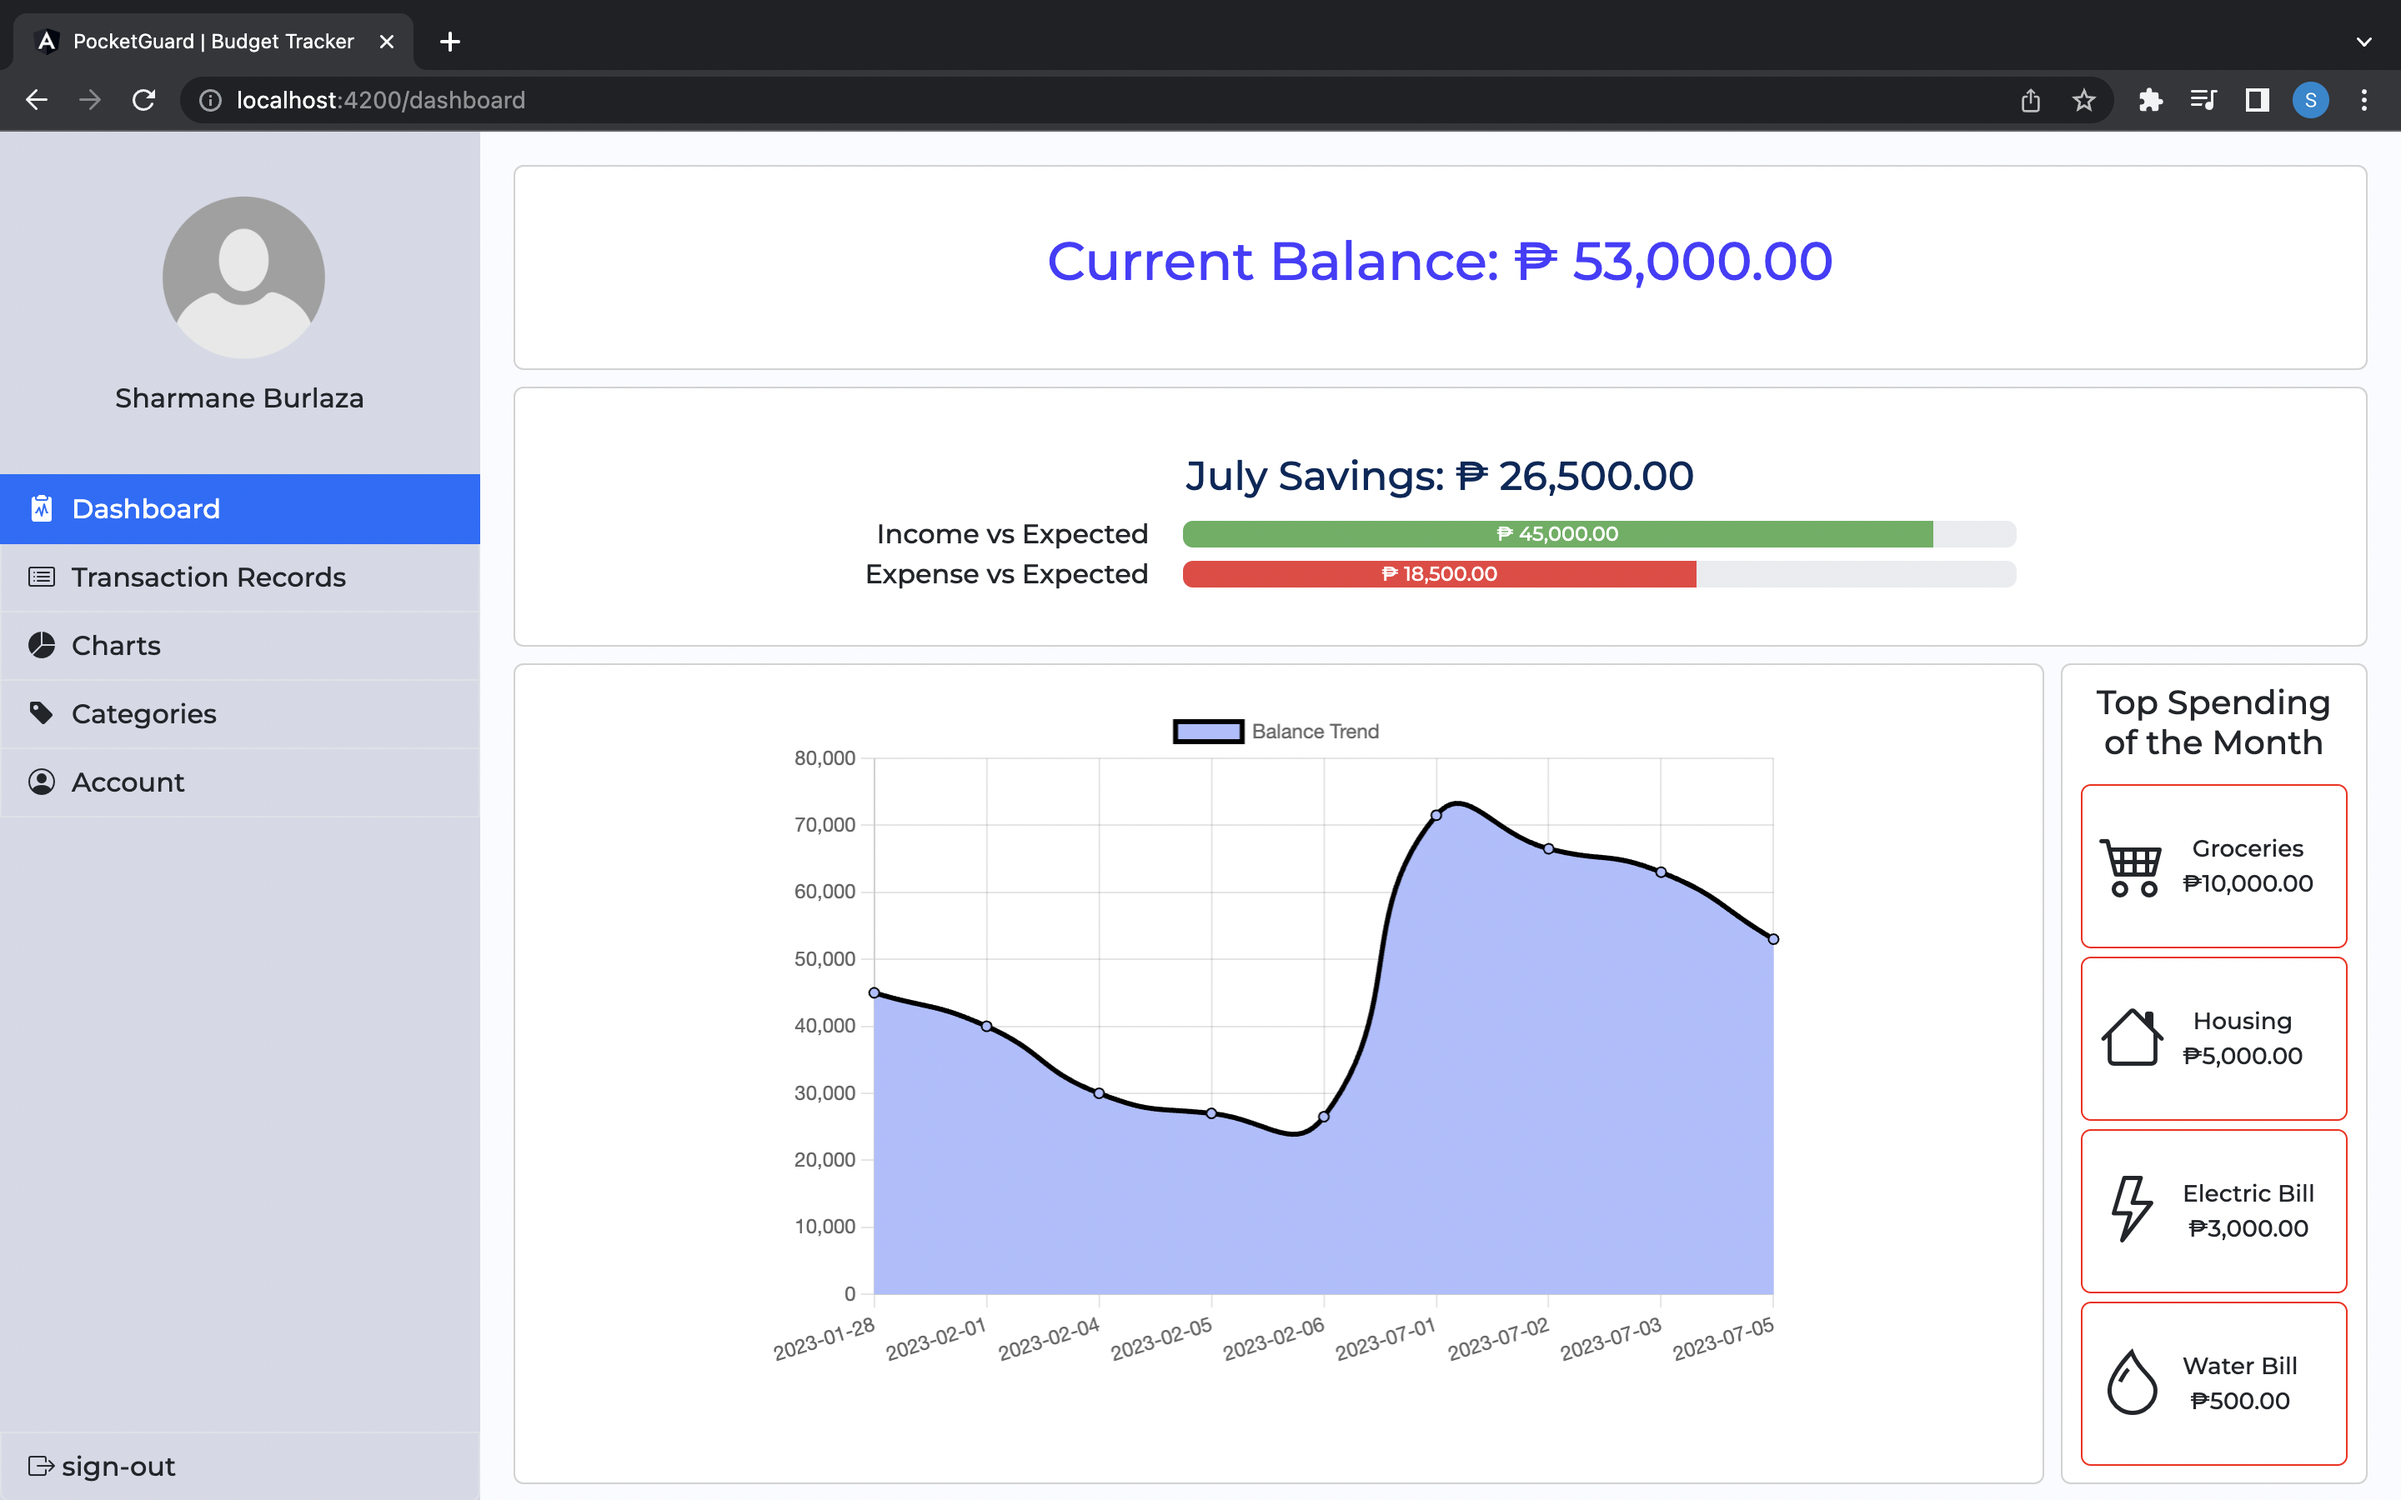
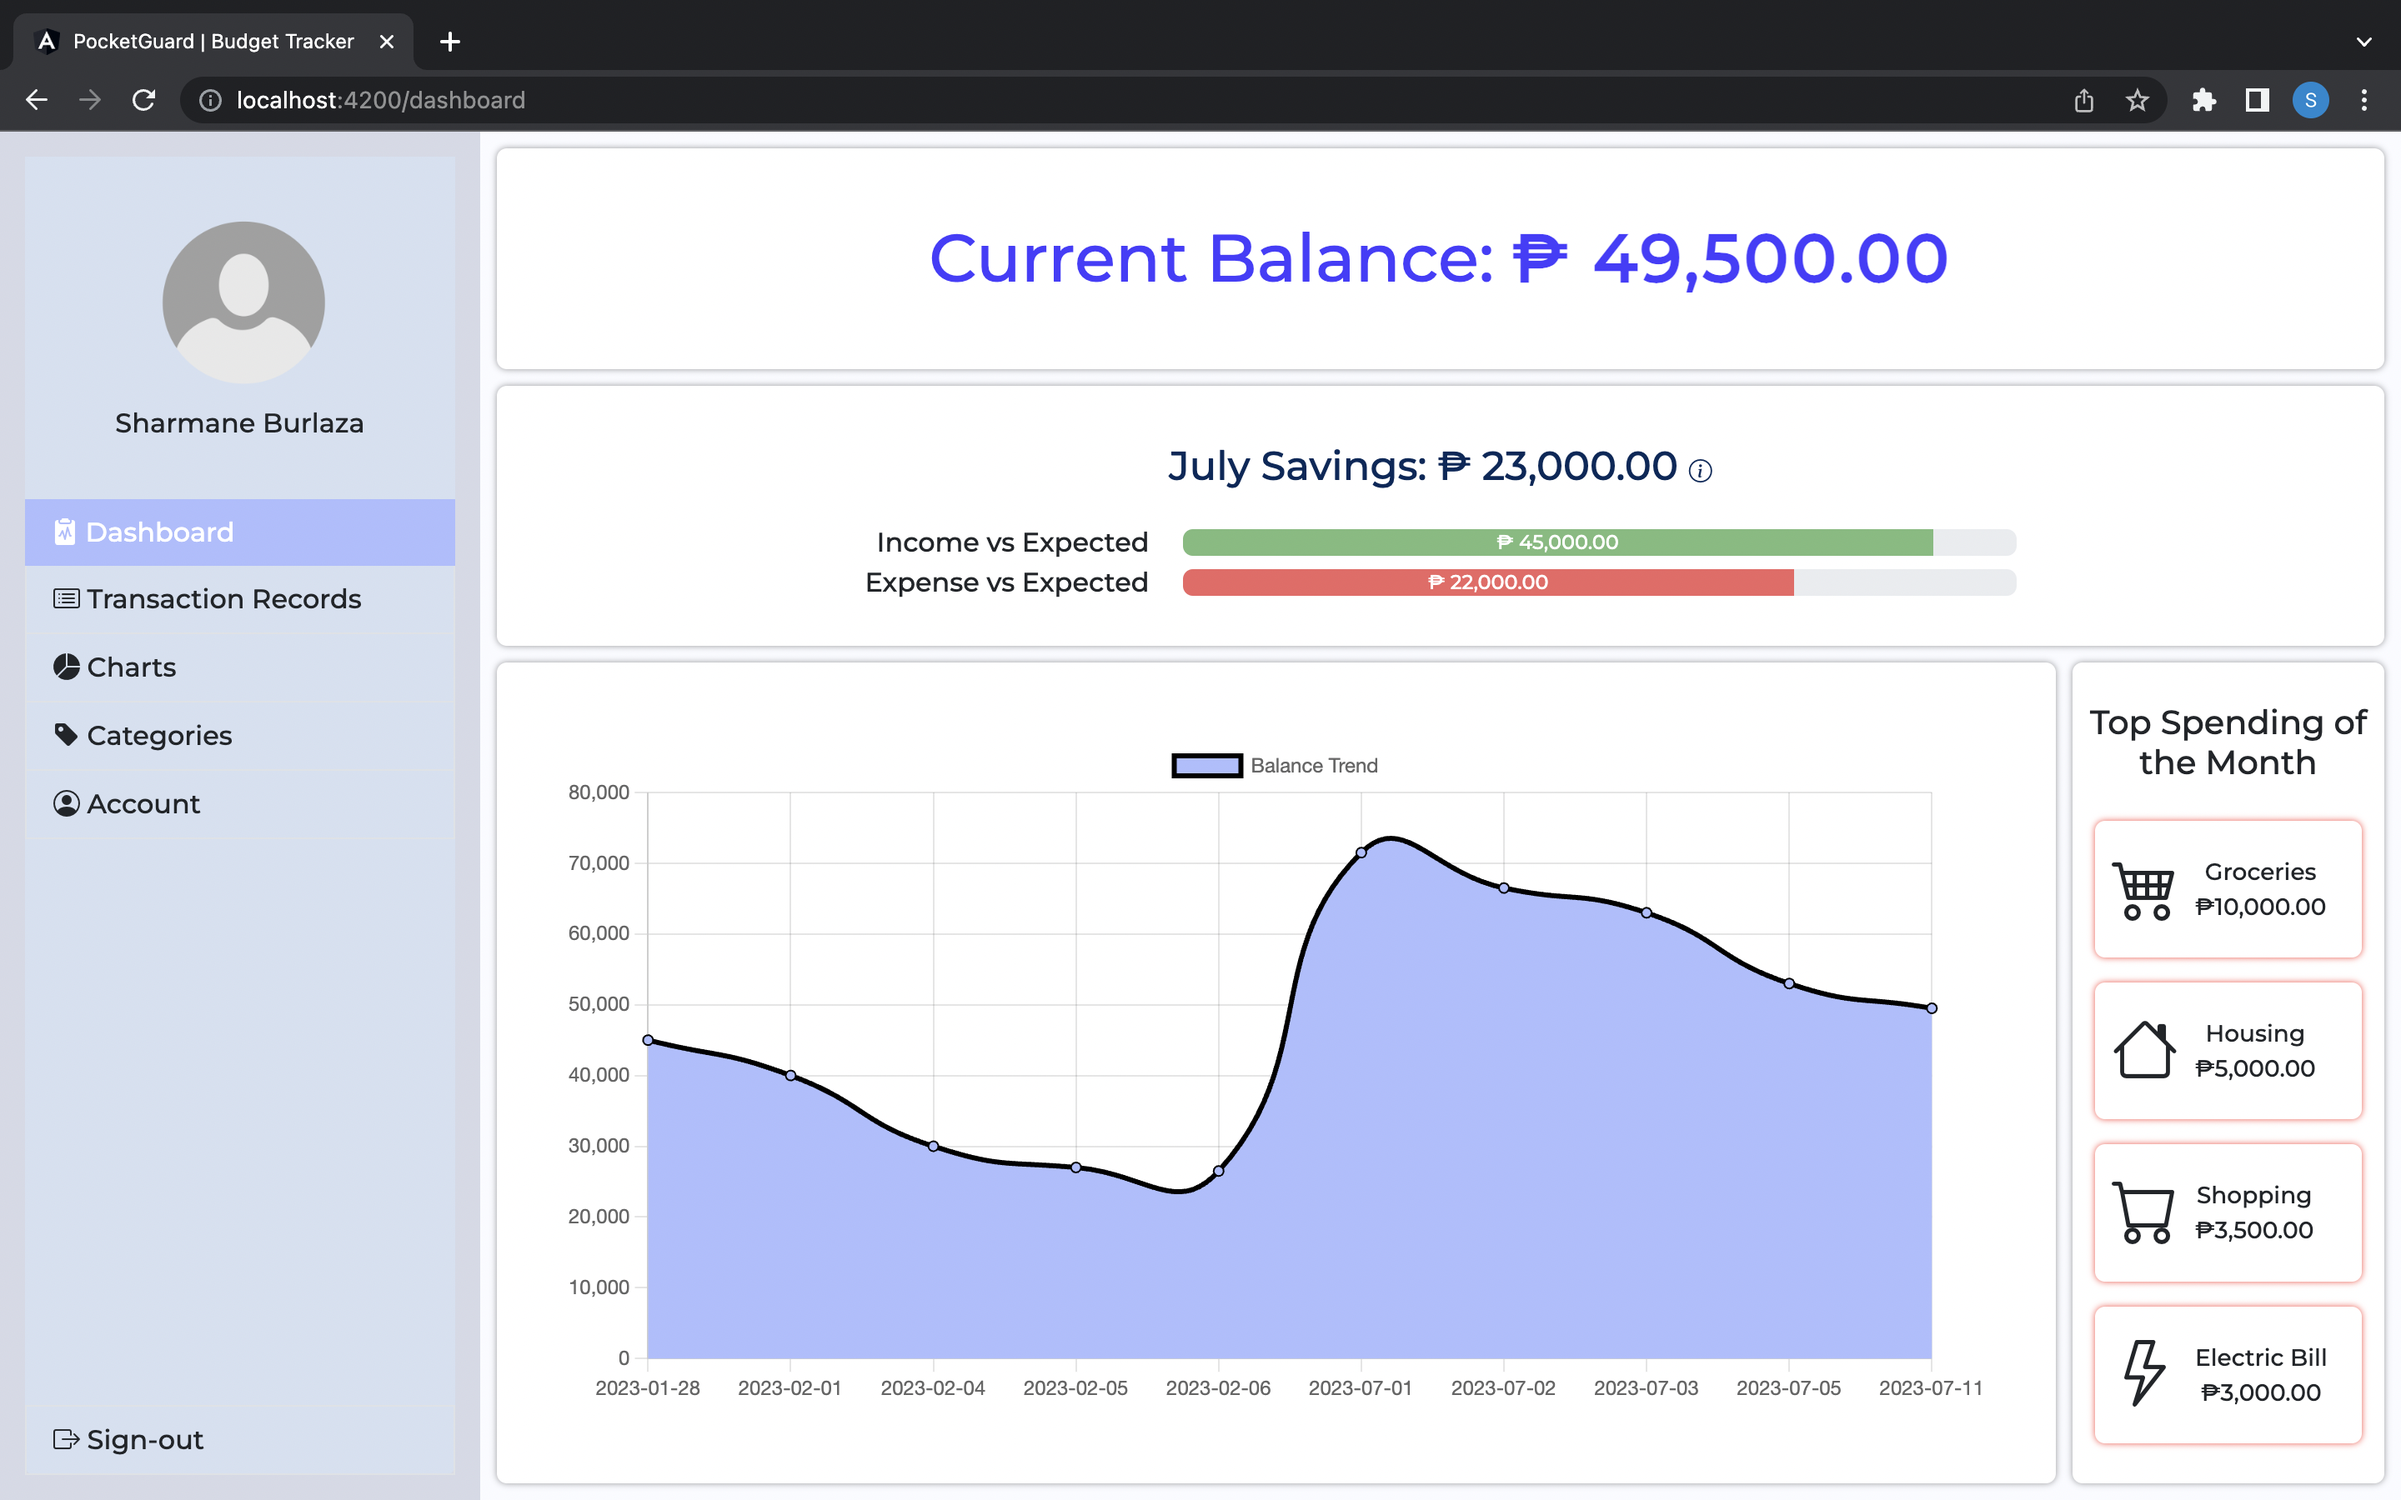
Improve dashboard layout and styling

diff --git a/src/app/dashboard/dashboard.component.scss b/src/app/dashboard/dashboard.component.scss
@@ -1,17 +1,24 @@
 @import '../../styles/variables';
 
 .dashboard {
-    padding: 20px;
+    height: 100vh;
+    padding: 10px;
 
     .balance-container {
         display: flex;
         align-items: center;
         justify-content: center;
-        height: 15vh;
-        // background-color: $magnolia;
+        height: calc(100vh - 19vh - 60vh - 10px - 10px - 20px);
+        box-shadow: 0px 0px 4px rgba(0, 0, 0, 0.4);
+        border: none;
 
-        h2 {
+        h1 {
             color: $purplish-blue;
+            margin-bottom: 0;
+
+            strong {
+                letter-spacing: 2px;
+            }
         }
     }
     
@@ -23,19 +30,18 @@
             justify-content: center;
             align-items: center;
             height: 19vh;
+            border: none;
+            box-shadow: 0px 0px 4px rgba(0, 0, 0, 0.4);
 
             h4 {
-                align-self: center;
+                height: 40px;
+                padding-bottom: 20px;
                 color: $marine-blue;
             }
 
             .bar-income, .bar-expense {
                 display: flex;
                 justify-content: flex-end;
-
-                .label {
-                    // width: 500px;
-                }
 
                 .progress {
                     width: 500px;
@@ -45,13 +51,13 @@
 
             .bar-income {
                 .progress-bar {
-                    background-color: rgb(93, 176, 93);
+                    background-color: rgb(93, 176, 93, 0.8);
                 }
             }
 
             .bar-expense {
                 .progress-bar {
-                    background-color: rgb(237, 62, 62);
+                    background-color: rgba(237, 62, 62, 0.8);
                 }
             }
         }
@@ -62,8 +68,13 @@
             height: 60vh;
     
             .trend-container {
+                display: flex;
+                justify-content: center;
                 margin-right: 10px;
-                width: 65vw
+                width: 65vw;
+                border: none;
+                box-shadow: 0px 0px 4px rgba(0, 0, 0, 0.4);
+                padding: 10px 40px;
             }
     
             .card.spending-container {
@@ -74,15 +85,18 @@
                 padding: 10px;
                 height: 60vh;
                 width: 13vw;
+                border: none;
+                box-shadow: 0px 0px 4px rgba(0, 0, 0, 0.4);
     
                 .spending-card {
                     display: flex;
                     flex-direction: row;
                     align-items: center;
                     width: 160px;
-                    height: 12vh;
-                    margin-top: 5px;
-                    border-color: red;
+                    height: 10vh;
+                    margin-top: 15px;
+                    border: none;
+                    box-shadow: 0px 0px 4px rgba(246, 3, 3, 0.8);
     
                     i {
                         font-size: 40px;

diff --git a/src/app/app.component.html b/src/app/app.component.html
@@ -4,17 +4,20 @@
             <img src="../assets/images/avatar.png" alt="" style="height: 15vh;">
             <h6> {{ user?.firstName }} {{ user?.lastName }}</h6>
         </div>
-        <div class="list-group">
-            <div class="paths-container">
-                <ng-container  *ngFor="let item of paths">
-                    <a class="list-group-item list-group-item-action" [routerLink]="item.path" [routerLinkActive]="['active']">
-                        <i class={{item.icon}}></i> <label for="" style="padding-left: 10px;"> {{ item.name }} </label>
-                    </a>
-                </ng-container>
+        <div class="list-group paths-container">
+            <div class="top-paths">
+                <a  *ngFor="let item of paths" 
+                    class="list-group-item list-group-item-action" 
+                    [routerLink]="item.path" 
+                    [routerLinkActive]="['active']">
+                    <i class={{item.icon}}></i>  {{ item.name }}
+                </a>
             </div>
-            <a class="list-group-item list-group-item-action" (click)="logout()"> 
-                <i class="bi bi-box-arrow-right"></i> sign-out 
-            </a>
+            <div class="bottom-paths">
+                <a class="list-group-item list-group-item-action" (click)="logout()"> 
+                    <i class="bi bi-box-arrow-right"></i> Sign-out 
+                </a>
+            </div>
         </div>
     </div>
     <div class="content">

diff --git a/src/app/dashboard/dashboard.component.html b/src/app/dashboard/dashboard.component.html
@@ -1,10 +1,15 @@
 <div class="dashboard">
     <div class="card balance-container">
-        <h2> Current Balance: &#8369; {{ balance | number: '.2' }} </h2>
+        <h1> Current Balance: 
+            <strong>&#8369; {{ balance | number: '.2' }} </strong>
+        </h1>
     </div>
     <div class="charts-container">
         <div class="card savings-container">
-            <h4 class="my-2">{{ currentMonth?.name }} Savings: &#8369; {{ currentMonth?.savings | number: '.2' }}</h4>
+            <h4 class="my-2">
+                {{ currentMonth?.name }} Savings: &#8369; {{ currentMonth?.savings | number: '.2' }} 
+                <i class="bi bi-info-circle" style="font-size: 14px;"></i>
+            </h4>
             <div class="bars-container">
                 <div class="bar-income">
                     <label for="">Income vs Expected</label>

diff --git a/src/app/app.component.scss b/src/app/app.component.scss
@@ -9,6 +9,11 @@
         width: 20vw;
         height: 100vh;
         background-color: $light_gray;
+        padding: 15px;
+
+        .profile-container, .paths-container {
+            background-color: rgba(211, 232, 250, 0.5);
+        }
 
         .profile-container {
             display: flex;
@@ -19,7 +24,13 @@
         }
         
         .paths-container {
-            height: 70vh;
+            height: calc(75vh - 30px); // minus padding
+
+            .bottom-paths {
+                position: fixed;
+                bottom: 15px;
+                width: calc(20vw - 30px);
+            }
         }
     }
     
@@ -34,4 +45,9 @@
 
 a {
     background: transparent;
+}
+
+.list-group-item.active {
+    background-color: $pastel_blue;
+    border: none;
 }

diff --git a/src/app/shared/charts/balance-trend/balance-trend.component.html b/src/app/shared/charts/balance-trend/balance-trend.component.html
@@ -1,3 +1,3 @@
-<div class="col-lg-8 offset-lg-2 my-4 text-center">
+<div class="text-center chart">
     <canvas #myCanvas id="lineChart" height="400">{{chart}}</canvas>
 </div>

diff --git a/src/styles.scss b/src/styles.scss
@@ -4,6 +4,7 @@
 
 * {
     margin: 0;
+    padding: 0;
     font-family: 'Montserrat', sans-serif;
 }
 
